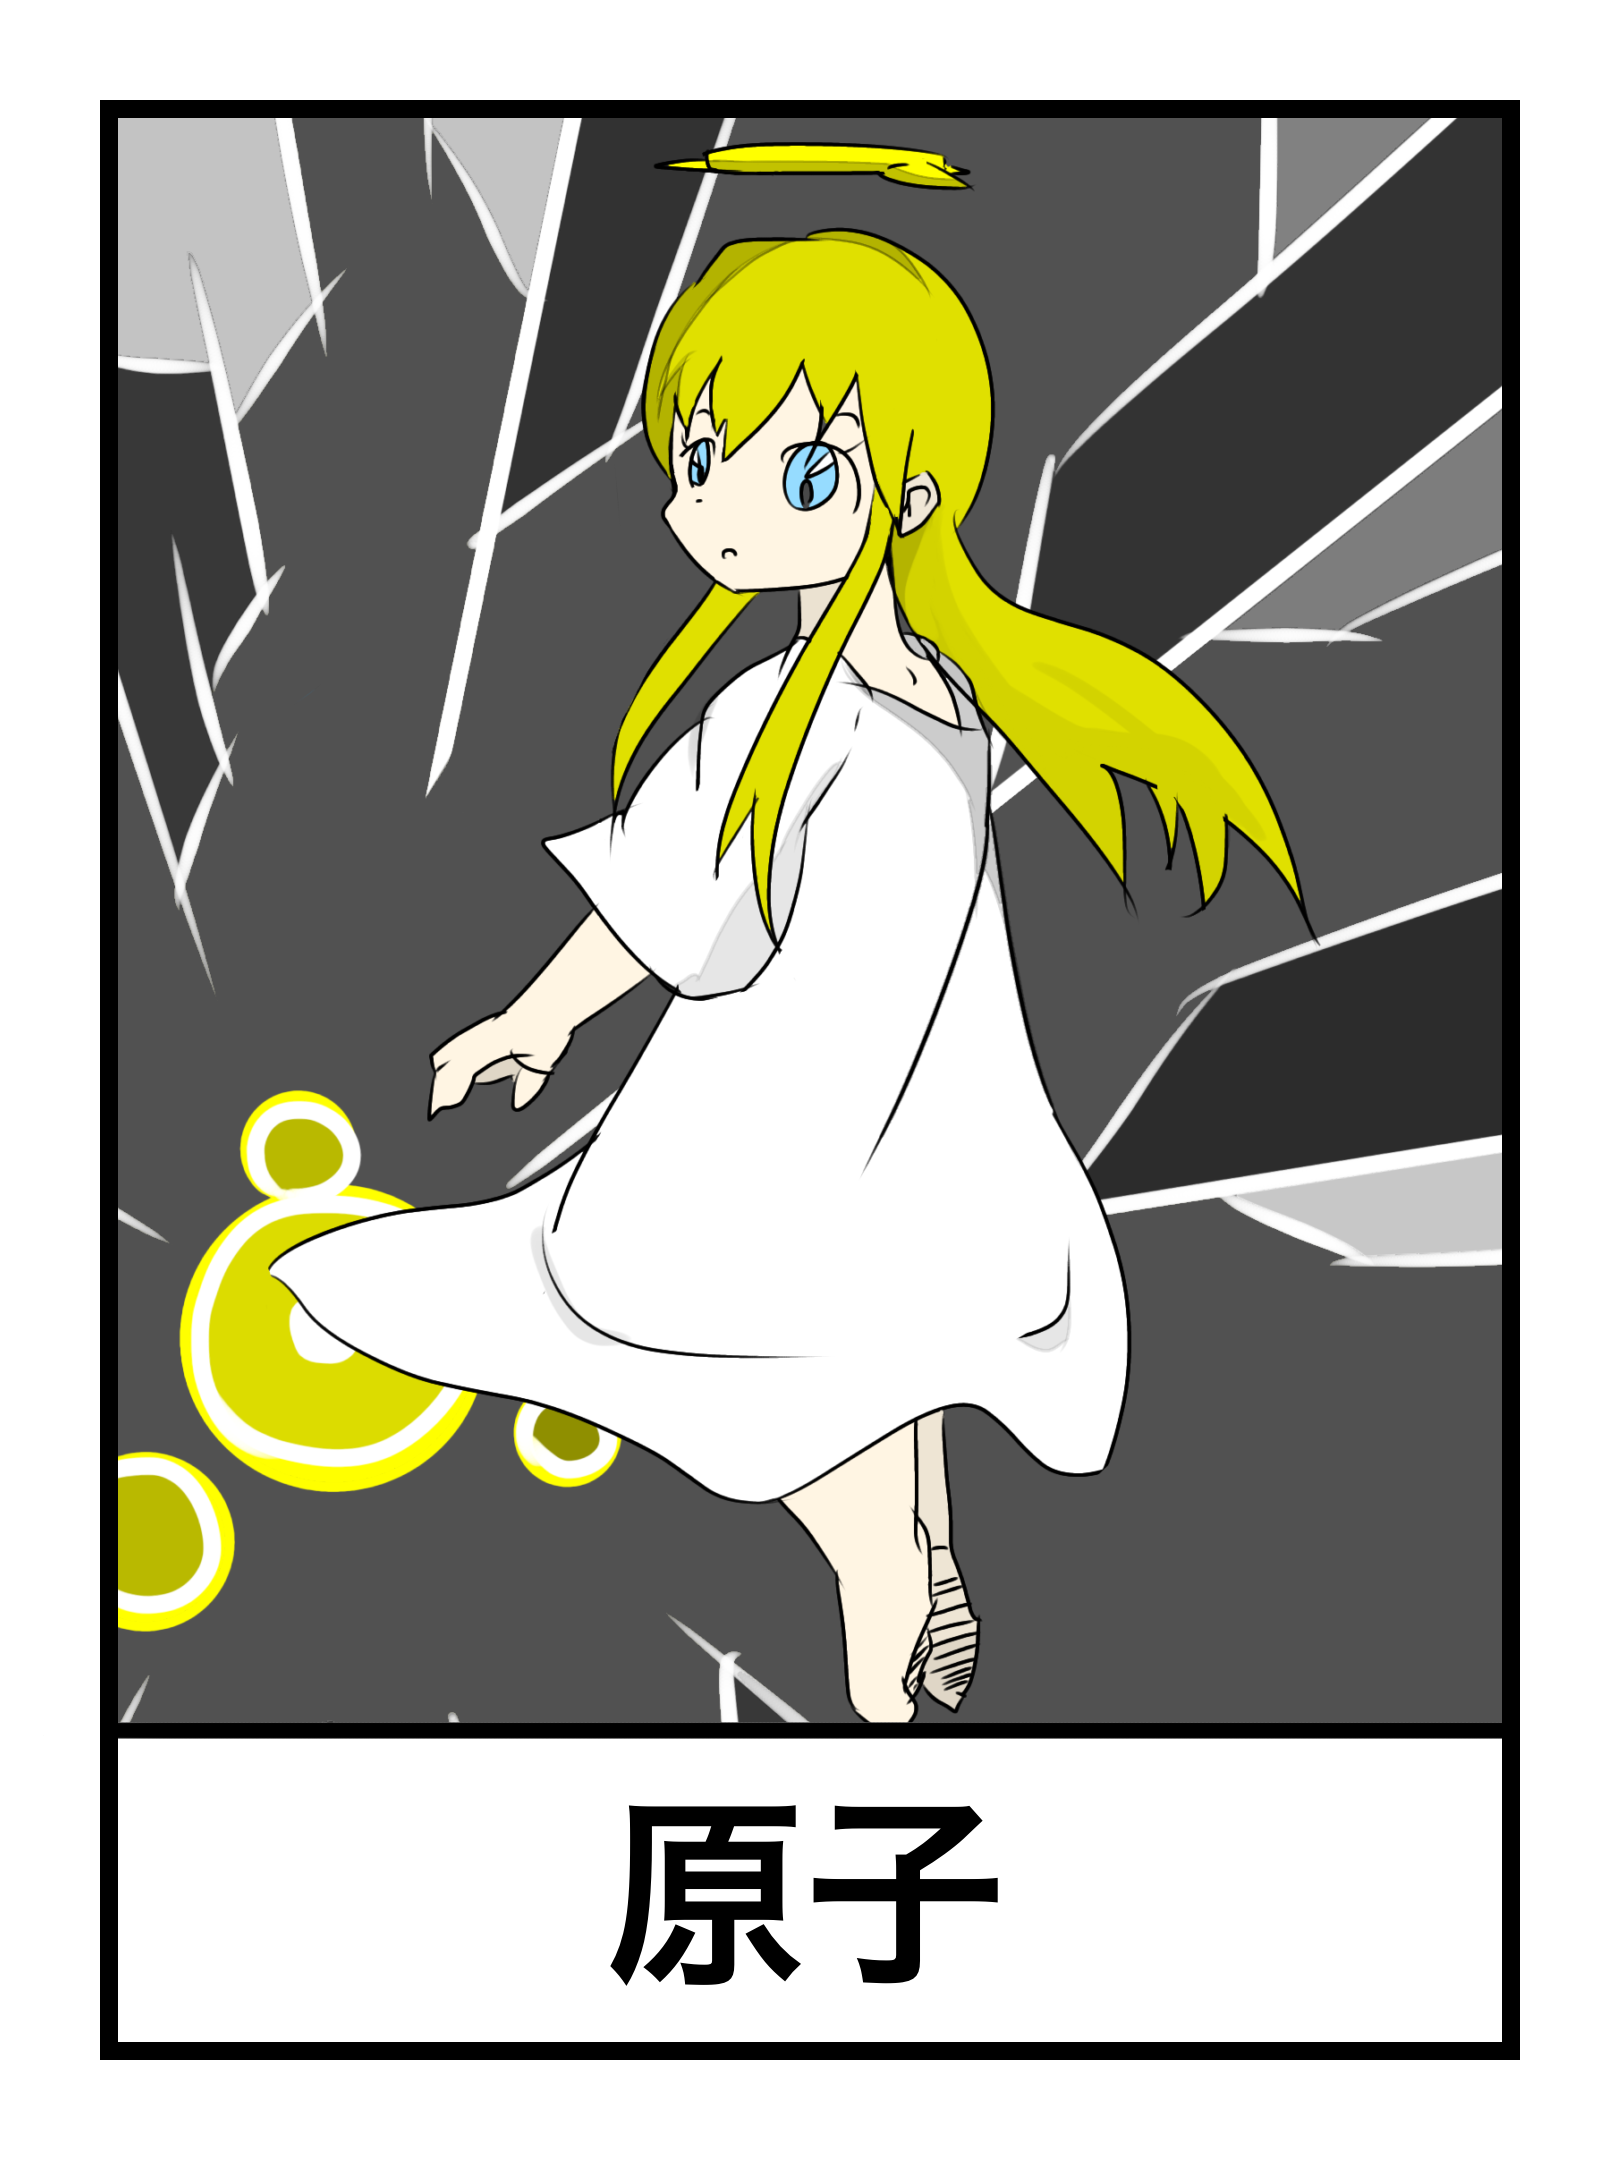
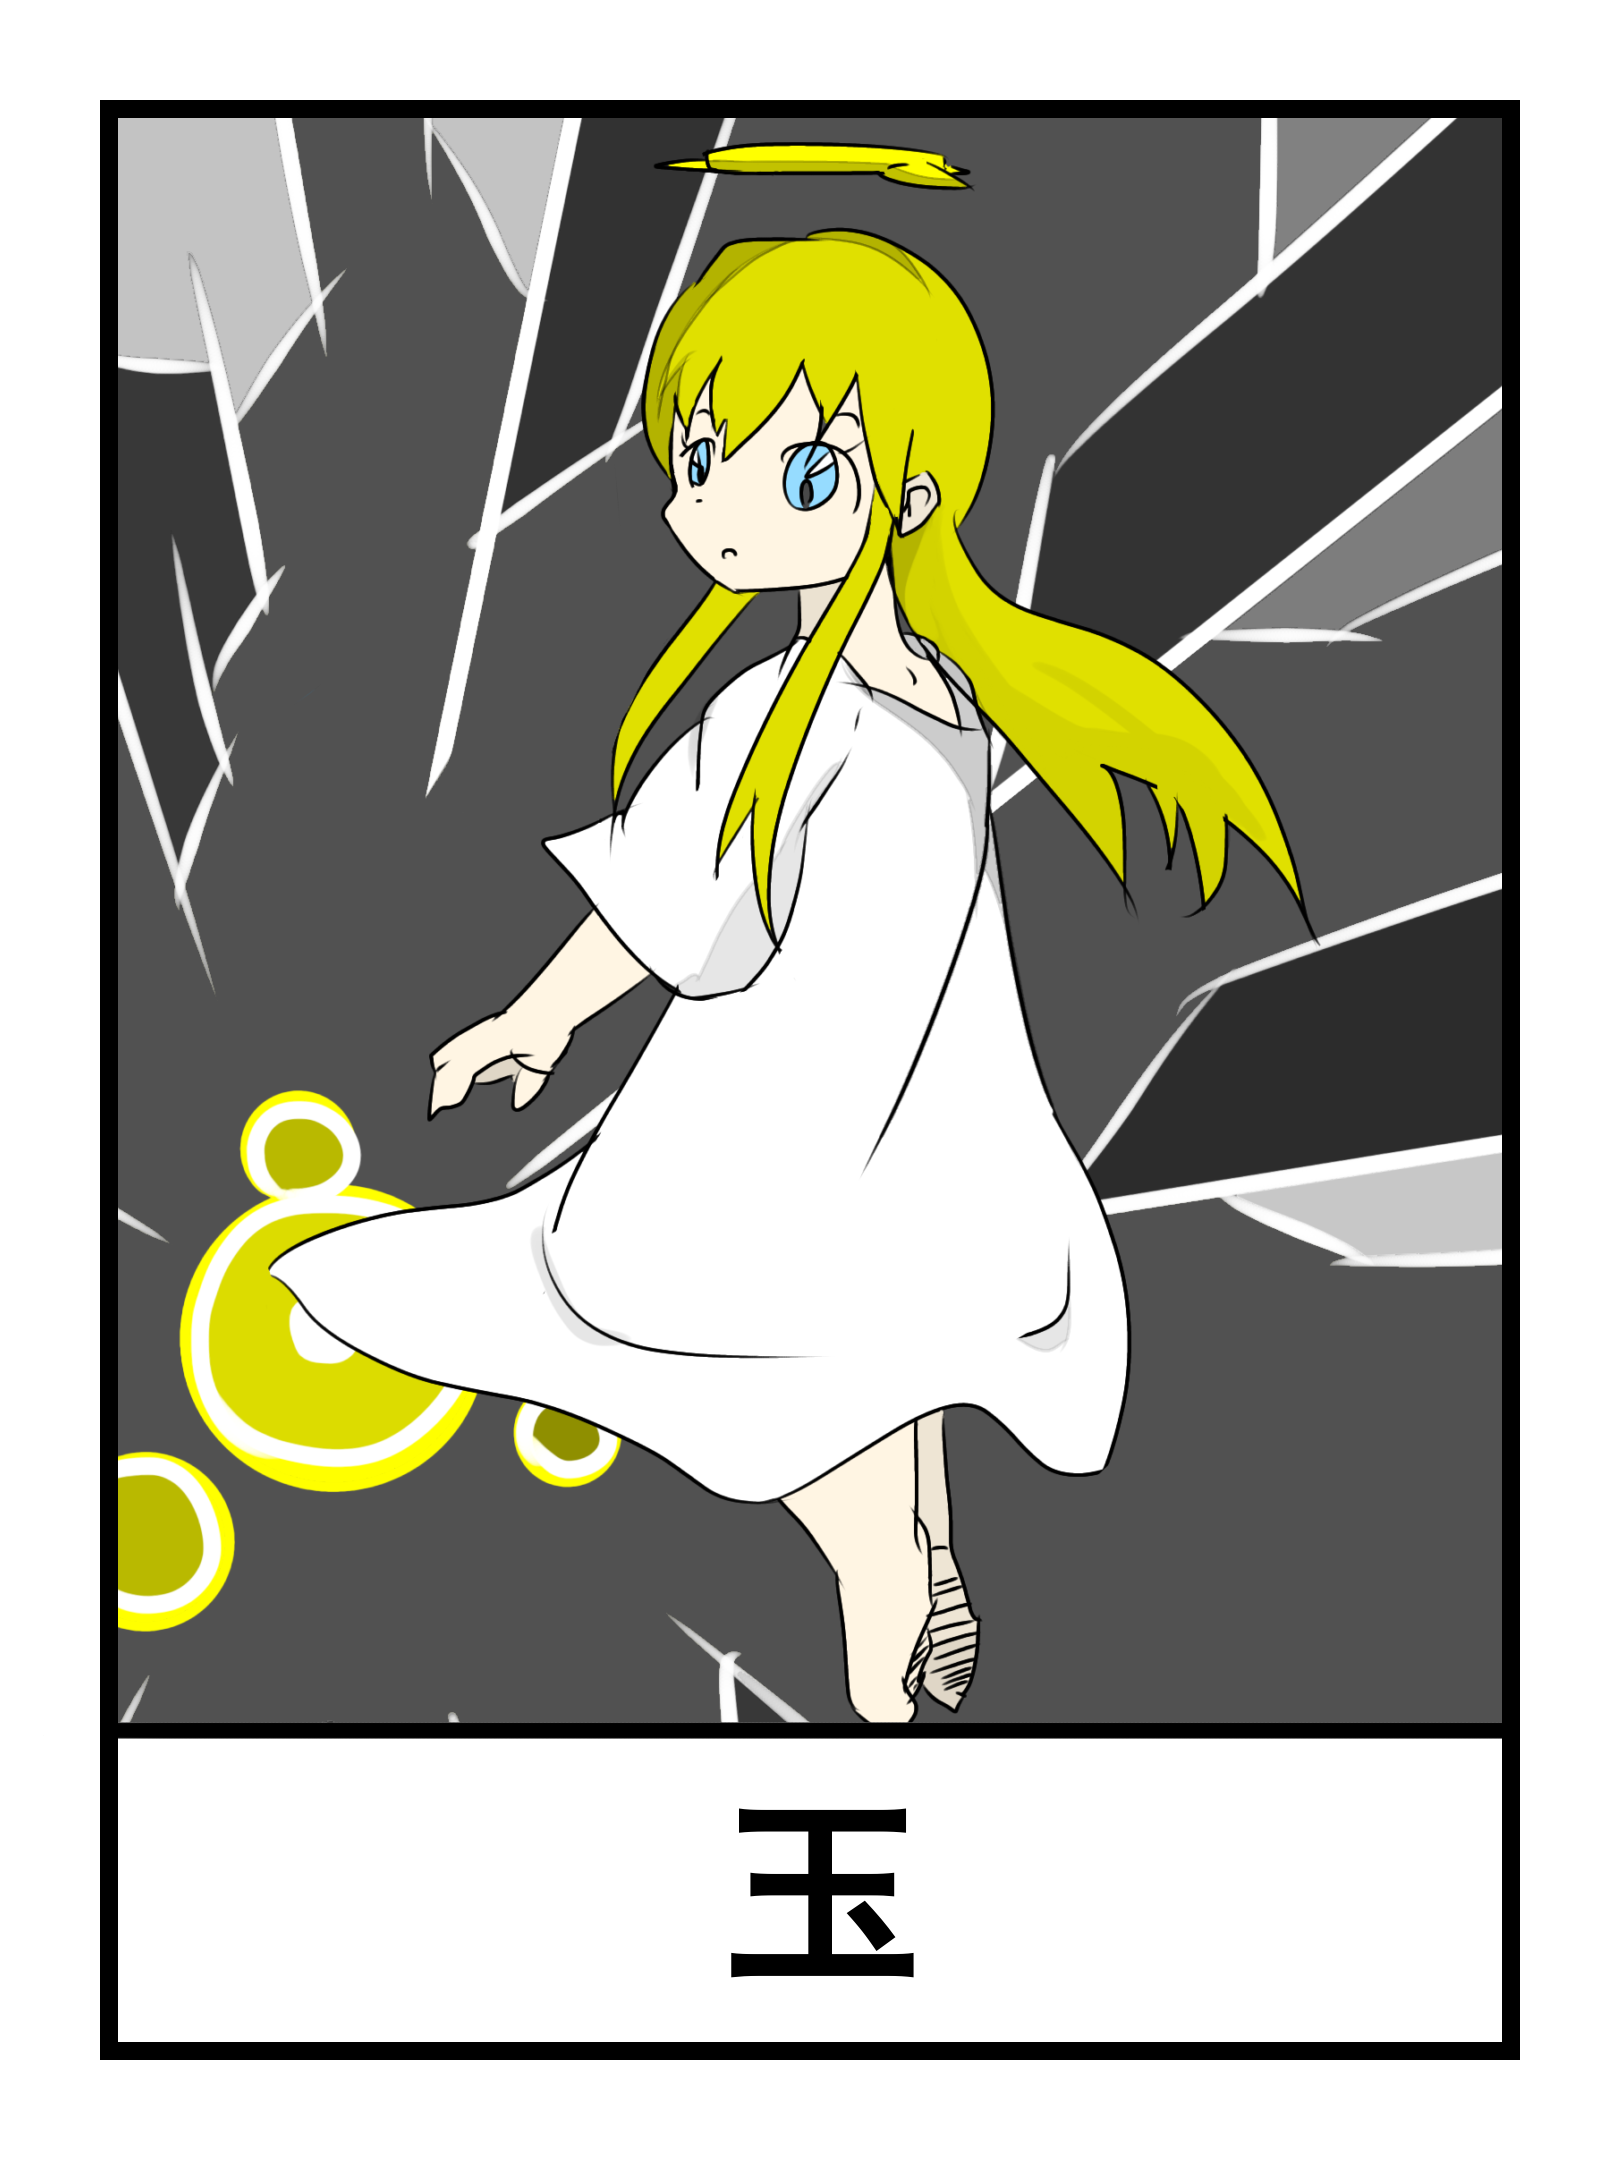
fix

Changed region(s): [[0.3704, 0.8375, 0.6173, 0.9306]]

diff --git a/static/tarot/app.js b/static/tarot/app.js
@@ -1,2 +1,2 @@
-(function(t){function r(r){for(var n,i,c=r[0],p=r[1],l=r[2],u=0,s=[];u<c.length;u++)i=c[u],Object.prototype.hasOwnProperty.call(a,i)&&a[i]&&s.push(a[i][0]),a[i]=0;for(n in p)Object.prototype.hasOwnProperty.call(p,n)&&(t[n]=p[n]);f&&f(r);while(s.length)s.shift()();return o.push.apply(o,l||[]),e()}function e(){for(var t,r=0;r<o.length;r++){for(var e=o[r],n=!0,c=1;c<e.length;c++){var p=e[c];0!==a[p]&&(n=!1)}n&&(o.splice(r--,1),t=i(i.s=e[0]))}return t}var n={},a={app:0},o=[];function i(r){if(n[r])return n[r].exports;var e=n[r]={i:r,l:!1,exports:{}};return t[r].call(e.exports,e,e.exports,i),e.l=!0,e.exports}i.m=t,i.c=n,i.d=function(t,r,e){i.o(t,r)||Object.defineProperty(t,r,{enumerable:!0,get:e})},i.r=function(t){"undefined"!==typeof Symbol&&Symbol.toStringTag&&Object.defineProperty(t,Symbol.toStringTag,{value:"Module"}),Object.defineProperty(t,"__esModule",{value:!0})},i.t=function(t,r){if(1&r&&(t=i(t)),8&r)return t;if(4&r&&"object"===typeof t&&t&&t.__esModule)return t;var e=Object.create(null);if(i.r(e),Object.defineProperty(e,"default",{enumerable:!0,value:t}),2&r&&"string"!=typeof t)for(var n in t)i.d(e,n,function(r){return t[r]}.bind(null,n));return e},i.n=function(t){var r=t&&t.__esModule?function(){return t["default"]}:function(){return t};return i.d(r,"a",r),r},i.o=function(t,r){return Object.prototype.hasOwnProperty.call(t,r)},i.p="/";var c=window["webpackJsonp"]=window["webpackJsonp"]||[],p=c.push.bind(c);c.push=r,c=c.slice();for(var l=0;l<c.length;l++)r(c[l]);var f=p;o.push([0,"chunk-vendors"]),e()})({0:function(t,r,e){t.exports=e("56d7")},"034f":function(t,r,e){"use strict";e("85ec")},"56d7":function(t,r,e){"use strict";e.r(r);var n=e("2b0e"),a=function(){var t=this,r=t.$createElement,e=t._self._c||r;return e("div",{attrs:{id:"app"}},[e("button",{on:{click:t.picker}},[e("i",{staticClass:"far fa-play-circle"}),t._v(" START")]),e("p",[e("img",{attrs:{src:t.chosenName.file}}),t._v(" "),e("img",{attrs:{src:t.cnt.file}})]),e("p",[t._v(t._s(t.chosenName.p))]),e("p",[t._v(t._s(t.cnt.p))])])},o=[],i=e("cb11"),c={data(){return{items:i,chosenName:"",cnt:""}},methods:{picker:function(){var t=Math.floor(Math.random()*i.length),r=Math.floor(Math.random()*i.length);this.chosenName=i[t];while(t===r)r=Math.floor(Math.random()*i.length);this.cnt=i[r]}}},p=c,l=(e("034f"),e("2877")),f=Object(l["a"])(p,a,o,!1,null,null,null),u=f.exports;n["a"].config.productionTip=!1,new n["a"]({render:t=>t(u)}).$mount("#app")},"85ec":function(t,r,e){},cb11:function(t){t.exports=JSON.parse('[{"id":"1","h":"夢","file":"/ai/tarot/tarot_card_01.png","p":"願望の成熟"},{"id":"2","h":"忍者","file":"/ai/tarot/tarot_card_02.png","p":"忍耐や隠れ忍ぶこと"},{"id":"3","h":"昼寝","file":"/ai/tarot/tarot_card_03.png","p":"休憩や休息"},{"id":"4","h":"無効","file":"/ai/tarot/tarot_card_04.png","p":"無我や無心"},{"id":"5","h":"天国","file":"/ai/tarot/tarot_card_05.png","p":"居心地や環境"},{"id":"6","h":"金","file":"/ai/tarot/tarot_card_06.png","p":"富とお金"},{"id":"7","h":"音楽","file":"/ai/tarot/tarot_card_07.png","p":"気分や雰囲気"},{"id":"8","h":"原子","file":"/ai/tarot/tarot_card_08.png","p":"科学と身の回りのもの"},{"id":"9","h":"白雪","file":"/ai/tarot/tarot_card_09.png","p":"真っ白な純粋"},{"id":"10","h":"雷帝","file":"/ai/tarot/tarot_card_10.png","p":"雷と怒り"}]')}});
+(function(t){function r(r){for(var n,i,c=r[0],p=r[1],l=r[2],u=0,s=[];u<c.length;u++)i=c[u],Object.prototype.hasOwnProperty.call(a,i)&&a[i]&&s.push(a[i][0]),a[i]=0;for(n in p)Object.prototype.hasOwnProperty.call(p,n)&&(t[n]=p[n]);f&&f(r);while(s.length)s.shift()();return o.push.apply(o,l||[]),e()}function e(){for(var t,r=0;r<o.length;r++){for(var e=o[r],n=!0,c=1;c<e.length;c++){var p=e[c];0!==a[p]&&(n=!1)}n&&(o.splice(r--,1),t=i(i.s=e[0]))}return t}var n={},a={app:0},o=[];function i(r){if(n[r])return n[r].exports;var e=n[r]={i:r,l:!1,exports:{}};return t[r].call(e.exports,e,e.exports,i),e.l=!0,e.exports}i.m=t,i.c=n,i.d=function(t,r,e){i.o(t,r)||Object.defineProperty(t,r,{enumerable:!0,get:e})},i.r=function(t){"undefined"!==typeof Symbol&&Symbol.toStringTag&&Object.defineProperty(t,Symbol.toStringTag,{value:"Module"}),Object.defineProperty(t,"__esModule",{value:!0})},i.t=function(t,r){if(1&r&&(t=i(t)),8&r)return t;if(4&r&&"object"===typeof t&&t&&t.__esModule)return t;var e=Object.create(null);if(i.r(e),Object.defineProperty(e,"default",{enumerable:!0,value:t}),2&r&&"string"!=typeof t)for(var n in t)i.d(e,n,function(r){return t[r]}.bind(null,n));return e},i.n=function(t){var r=t&&t.__esModule?function(){return t["default"]}:function(){return t};return i.d(r,"a",r),r},i.o=function(t,r){return Object.prototype.hasOwnProperty.call(t,r)},i.p="/";var c=window["webpackJsonp"]=window["webpackJsonp"]||[],p=c.push.bind(c);c.push=r,c=c.slice();for(var l=0;l<c.length;l++)r(c[l]);var f=p;o.push([0,"chunk-vendors"]),e()})({0:function(t,r,e){t.exports=e("56d7")},"034f":function(t,r,e){"use strict";e("85ec")},"56d7":function(t,r,e){"use strict";e.r(r);var n=e("2b0e"),a=function(){var t=this,r=t.$createElement,e=t._self._c||r;return e("div",{attrs:{id:"app"}},[e("button",{on:{click:t.picker}},[e("i",{staticClass:"far fa-play-circle"}),t._v(" START")]),t.chosenName.file?e("p",[e("img",{attrs:{src:t.chosenName.file}}),t._v(" "),e("img",{attrs:{src:t.cnt.file}})]):e("p",[e("img",{attrs:{src:t.tarotz}})]),e("p"),e("blockquote",[t.chosenName.p?e("p",[t._v(t._s(t.chosenName.p))]):e("p",[t._v("タロットカード")]),e("p",[t._v(t._s(t.cnt.p))])])])},o=[],i=e("cb11"),c={data(){return{items:i,chosenName:"",cnt:"",tarotz:"/ai/tarot/tarot_card_00.png"}},methods:{picker:function(){var t=Math.floor(Math.random()*i.length),r=Math.floor(Math.random()*i.length);this.chosenName=i[t];while(t===r)r=Math.floor(Math.random()*i.length);this.cnt=i[r]}}},p=c,l=(e("034f"),e("2877")),f=Object(l["a"])(p,a,o,!1,null,null,null),u=f.exports;n["a"].config.productionTip=!1,new n["a"]({render:t=>t(u)}).$mount("#app")},"85ec":function(t,r,e){},cb11:function(t){t.exports=JSON.parse('[{"id":"1","h":"夢","file":"/ai/tarot/tarot_card_01.png","p":"願望の成熟"},{"id":"2","h":"忍者","file":"/ai/tarot/tarot_card_02.png","p":"忍耐や隠れ忍ぶこと"},{"id":"3","h":"昼寝","file":"/ai/tarot/tarot_card_03.png","p":"休憩や休息"},{"id":"4","h":"無効","file":"/ai/tarot/tarot_card_04.png","p":"無我や無心"},{"id":"5","h":"天国","file":"/ai/tarot/tarot_card_05.png","p":"居心地や環境"},{"id":"6","h":"金","file":"/ai/tarot/tarot_card_06.png","p":"富とお金"},{"id":"7","h":"太陽","file":"/ai/tarot/tarot_card_07.png","p":"気分や雰囲気"},{"id":"8","h":"玉","file":"/ai/tarot/tarot_card_08.png","p":"元気や身の回りのもの"},{"id":"9","h":"白雪","file":"/ai/tarot/tarot_card_09.png","p":"真っ白や純粋"},{"id":"10","h":"雷帝","file":"/ai/tarot/tarot_card_10.png","p":"雷と衝撃"}]')}});
 //# sourceMappingURL=app.js.map

diff --git a/src-tarot/src/App.vue b/src-tarot/src/App.vue
@@ -1,9 +1,14 @@
 <template>
 	<div id="app">
 		<button @click="picker"><i class="far fa-play-circle"></i> START</button>
-		<p><img :src="chosenName.file" /> <img :src="cnt.file" /></p>
-	<p>{{ chosenName.p }}</p>
-	<p>{{ cnt.p }}</p>
+		<p v-if="chosenName.file"><img :src="chosenName.file" /> <img :src="cnt.file" /></p>
+  <p v-else><img :src="tarotz" /></p>
+		<p></p>
+	<blockquote>
+		<p v-if="chosenName.p">{{ chosenName.p }}</p>
+  <p v-else>タロットカード</p>
+		<p>{{ cnt.p }}</p>
+	</blockquote>
 </div>
 	</div>
 
@@ -17,7 +22,8 @@ export default {
 		return {
 			items,
 			chosenName: "",
-			cnt: ""
+			cnt: "",
+			tarotz:"/ai/tarot/tarot_card_00.png"
 		}
 	},
 	methods: {

diff --git a/static/js/terminal.js b/static/js/terminal.js
@@ -234,9 +234,9 @@ var ascii_archjp = "\n\n\
 					s.charCodeAt(0);
 				});
 			} else if (inputs[0] === 'ai' && inputs[1] === 'c') {
-						window.location.href = '/imgdiff';
+						window.location.href = '/ai/img/diff';
 			} else if (inputs[0] === 'ai' && inputs[1] === 'i') {
-						window.location.href = '/imgall';
+						window.location.href = '/ai/img/all';
 			} else if (/ai/.test(input)) {
 				term.echo(ascii_ai);
 				term.read("jump page?[y] : ", function(s) {
